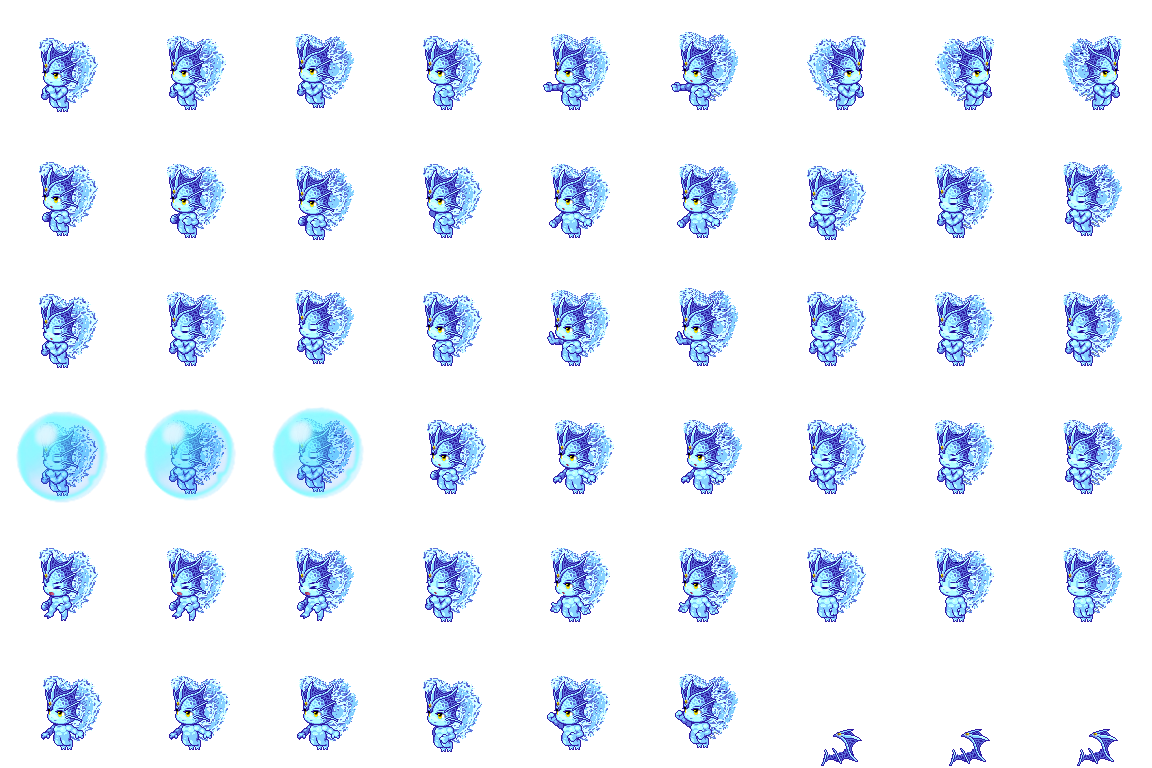
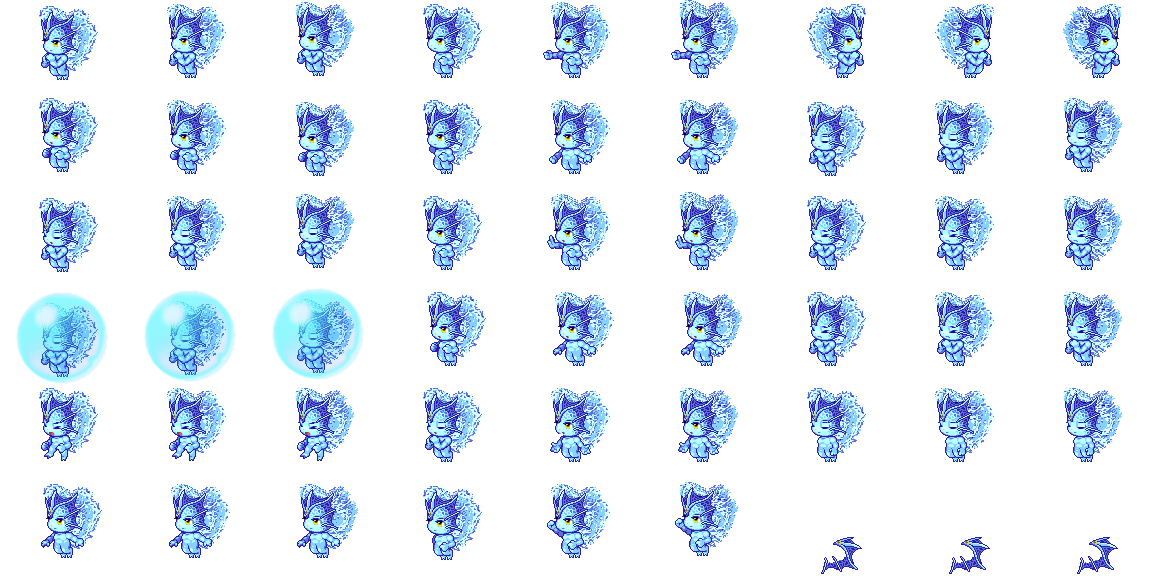
fixed issues with Water/Earth Spirit state overlays/shadows

diff --git a/CHANGELOG.md b/CHANGELOG.md
@@ -43,6 +43,7 @@ INTRO TEXT
 ### Bug Fixes
 - Fixed a typo in Cut Down's description.
 - Fixed occasional crash when loading a save file from a different version.
+- Fixed issues with the Water Spirit's state overlays and shadow.
 - Fixed incorrect Application Menu title on Mac.
 
 <br><br>
